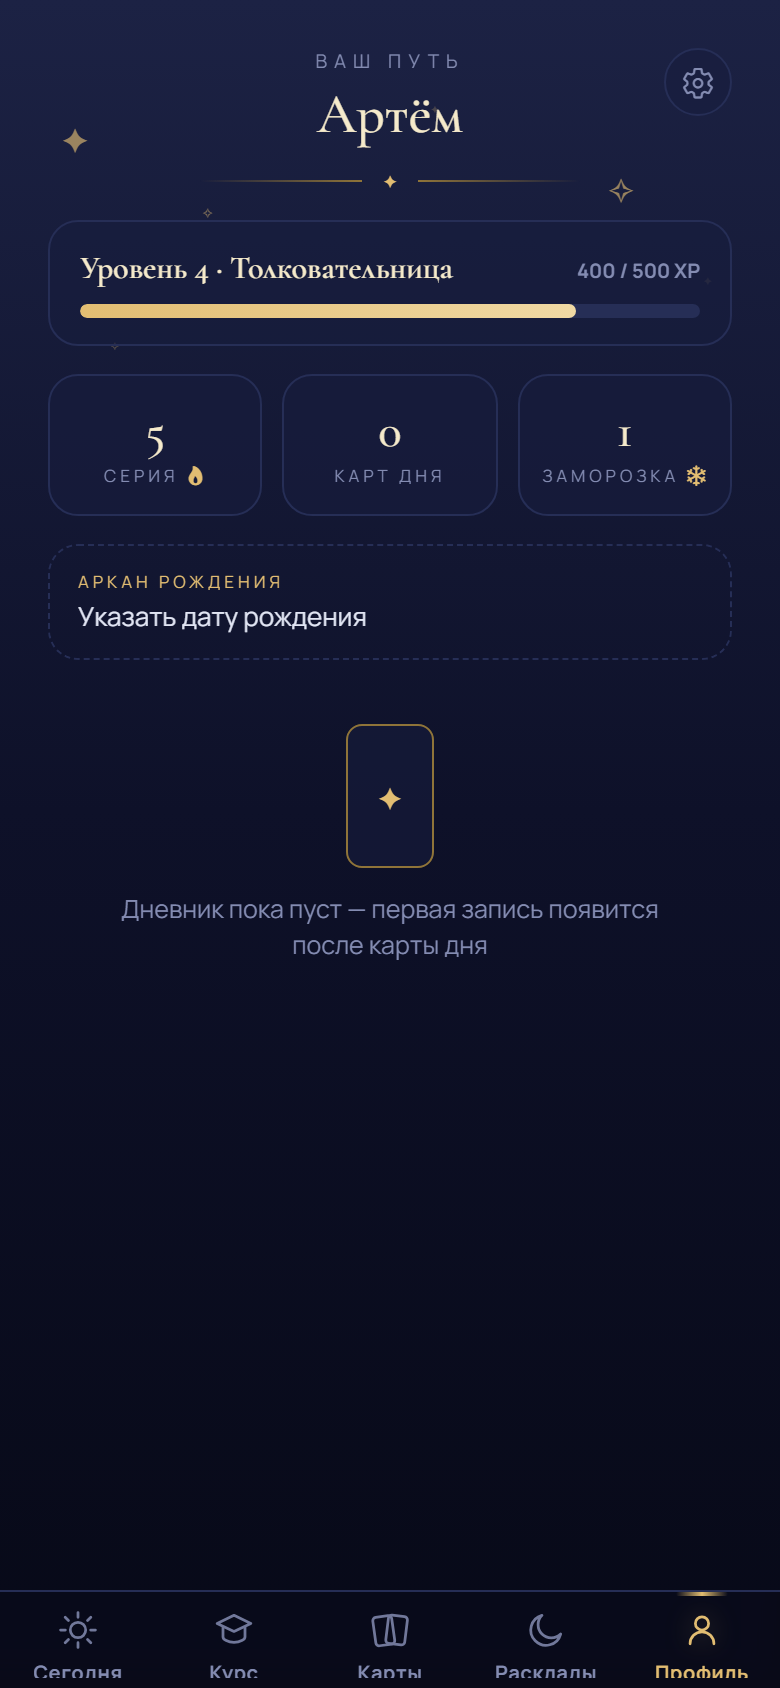
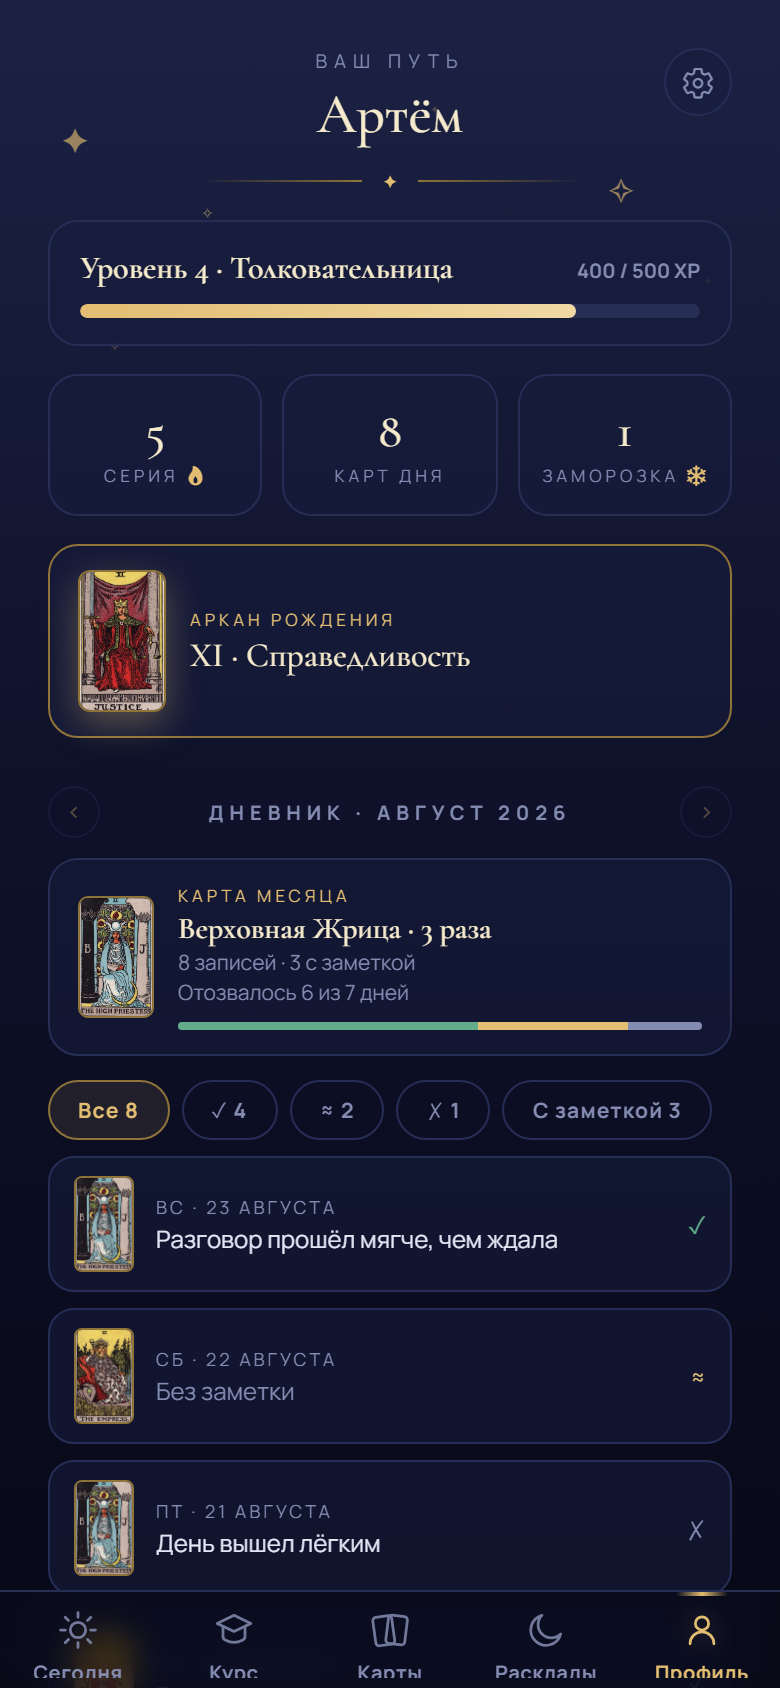
test: сценарий 56 — три дефекта сида, найденные самим аудитом
⚠ Сид решает, что попадёт в кадр, и трижды прятал блоки от проверки:
1. profile.birthDate без birthArcanaId — карточка аркана рождения не
   рисовалась (BirthArcanaCard читает id, а не дату), вместо неё пустая
   плашка «Указать дату рождения»;
2. пустой history — блок «Дневник» показывал пустое состояние, и его
   композиция (сводка, чипы, строки записей) не сверялась вовсе;
3. восемь РАЗНЫХ карт в истории — «КАРТА МЕСЯЦА» не рисуется при topCount=1
   (осознанное решение кода), половина карточки оставалась невидимой.

⚠ И дефект самой проверки: у пары moonspread маркером было слово
«новолуния», которое есть и в карточке списка раскладов, — поэтому редирект
гейта на /spreads прошёл незамеченным и в отчёт попал не тот экран (нашёл
агент-сверщик). Маркеры сделаны уникальными для целевого экрана
(«РАЗЛОЖИТЬ»), и пара честно покраснела, заставив разобраться: devMoonOpen
открывает окно БЛИЖАЙШЕГО события, а на 23.08 это полнолуние 28.08, — снимаем
полнолуние (композиция лунных раскладов общая).

diff --git a/scripts/shoot_56.js b/scripts/shoot_56.js
@@ -29,6 +29,31 @@ const M12 = ['m1l1', 'm1l2', 'm1l3', 'm1l4', 'm2l1', 'm2l2', 'm2l3', 'm2l4', 'm2
 const DECK = ['fool', 'magician', 'high-priestess', 'empress', 'emperor', 'hierophant', 'lovers', 'chariot'];
 const TODAY = new Date().toISOString().slice(0, 10);
 
+/** Записи дневника за текущий месяц: DailyDraw из src/lib/journal.ts
+ *  ({date, cardId, reversed, note?, outcome?}); outcome — 'yes' | 'partly' | 'no'. */
+const JOURNAL = (() => {
+  // ⚠ Повтор карты обязателен: MonthCard рисует «КАРТА МЕСЯЦА» только при topCount > 1
+  // (осознанное решение — при одном выпадении подпись обещала бы закономерность, которой нет).
+  // Сид из восьми РАЗНЫХ карт прятал половину карточки от аудита — находка 23.08
+  const cards = ['high-priestess', 'empress', 'high-priestess', 'magician', 'high-priestess', 'lovers', 'chariot', 'hierophant'];
+  const outcomes = ['yes', 'partly', 'no', 'yes', 'yes', undefined, 'partly', 'yes'];
+  const notes = ['Разговор прошёл мягче, чем ждала', undefined, 'День вышел лёгким', undefined, undefined, undefined, 'Пришлось подождать', undefined];
+  const day = Number(TODAY.slice(8, 10));
+  return cards
+    .map((cardId, i) => {
+      const d = day - i;
+      if (d < 1) return null;
+      return {
+        date: `${TODAY.slice(0, 8)}${String(d).padStart(2, '0')}`,
+        cardId,
+        reversed: i % 3 === 0,
+        ...(notes[i] ? { note: notes[i] } : {}),
+        ...(outcomes[i] ? { outcome: outcomes[i] } : {}),
+      };
+    })
+    .filter(Boolean);
+})();
+
 /** Состояние приложения. Форма взята из scripts/check_53_web.js — сочинять сид нельзя. */
 function seed(extra = {}) {
   return JSON.stringify({
@@ -36,11 +61,18 @@ function seed(extra = {}) {
       themeMode: 'dark',
       lang: 'ru',
       installSeed: 12345,
-      profile: { onboarded: true, name: 'Артём', birthDate: '1990-05-14' },
+      // ⚠ birthArcanaId ОБЯЗАТЕЛЕН рядом с birthDate: карточку аркана рождения рисует
+      // BirthArcanaCard по profile.birthArcanaId, а не по дате — сид только с датой давал
+      // пустую плашку «Указать дату рождения» и прятал целый блок от аудита (находка 23.08).
+      // Значение — birthArcanaId('1990-05-14') из src/lib/birthArcana.ts
+      profile: { onboarded: true, name: 'Артём', birthDate: '1990-05-14', birthArcanaId: 'justice' },
       premium: { active: false, source: 'none', until: null },
       lessonsProgress: Object.fromEntries(M12.map((id) => [id, { done: true, errors: 0, ts: 1755000000000 }])),
       srs: Object.fromEntries(DECK.map((id) => [id, { reps: 2, intervalDays: 3, ease: 2.5, due: '2026-01-01' }])),
       reviewDay: { date: '', newCount: 0, doneCount: 0 },
+      // дневник наполнен: без записей блок «ДНЕВНИК» на профиле показывает пустое состояние,
+      // и аудит его композиции не видит вовсе (находка 23.08 — сид решает, что попадёт в кадр)
+      history: JOURNAL,
       spreadsHistory: [],
       xp: 400,
       streak: 5,
@@ -62,9 +94,19 @@ const PAIRS = [
   { name: 'lesson',     route: '/lesson/m1l1',             mock: 'v-lesson',    marker: 'УРОК' },
   { name: 'trainer',    route: '/review',                  mock: 'v-trainer',   marker: 'Тренажёр' },
   { name: 'moon',       route: '/moon',                    mock: 'v-moon',      marker: 'ЛУНА' },
-  { name: 'spread3',    route: '/spreads/three-card',      mock: 'v-spread3',   marker: 'Три карты' },
-  { name: 'spread10',   route: '/spreads/celtic-cross',    mock: 'v-spread10',  marker: 'Кельтский крест', extra: { premium: PREMIUM } },
-  { name: 'moonspread', route: '/spreads/new-moon',        mock: 'v-moonspread', marker: 'новолуния' },
+  { name: 'spread3',    route: '/spreads/three-card',      mock: 'v-spread3',   marker: 'РАЗЛОЖИТЬ' },
+  { name: 'spread10',   route: '/spreads/celtic-cross',    mock: 'v-spread10',  marker: 'РАЗЛОЖИТЬ', extra: { premium: PREMIUM } },
+  // ⚠ devMoonOpen обязателен: вне окна события гейт уводит на список раскладов. Маркер здесь
+  // ДОЛЖЕН быть уникален для целевого экрана — первая редакция искала «новолуния», а это слово
+  // есть и в карточке списка, поэтому подменённый экран прошёл проверку незамеченным (находка
+  // агента-сверщика 23.08). «РАЗЛОЖИТЬ» есть только на самом экране расклада
+  // ⚠ Снимается ПОЛНОЛУНИЕ, хотя макет v-moonspread рисует новолуние: devMoonOpen подставляет
+  // «сейчас» = момент БЛИЖАЙШЕГО события (useDevMoonNow → nearestMoonEvent), а на 23.08.2026
+  // ближайшее — полнолуние 28.08. Расклад новолуния при этом закрыт законно, и гейт уводит
+  // на список. Композиция обоих лунных раскладов одна, сверять её можно на любом из них;
+  // полнолуние premium — отсюда PREMIUM в сиде
+  { name: 'moonspread', route: '/spreads/full-moon',       mock: 'v-moonspread', marker: 'РАЗЛОЖИТЬ',
+    extra: { devMoonOpen: true, premium: PREMIUM } },
   { name: 'paywall',    route: '/paywall',                 mock: 'v-paywall',   marker: 'Premium' },
   { name: 'settings',   route: '/settings',                mock: 'v-settings',  marker: 'Настройки' },
   { name: 'about',      route: '/about',                   mock: 'v-about',     marker: 'О приложении' },
